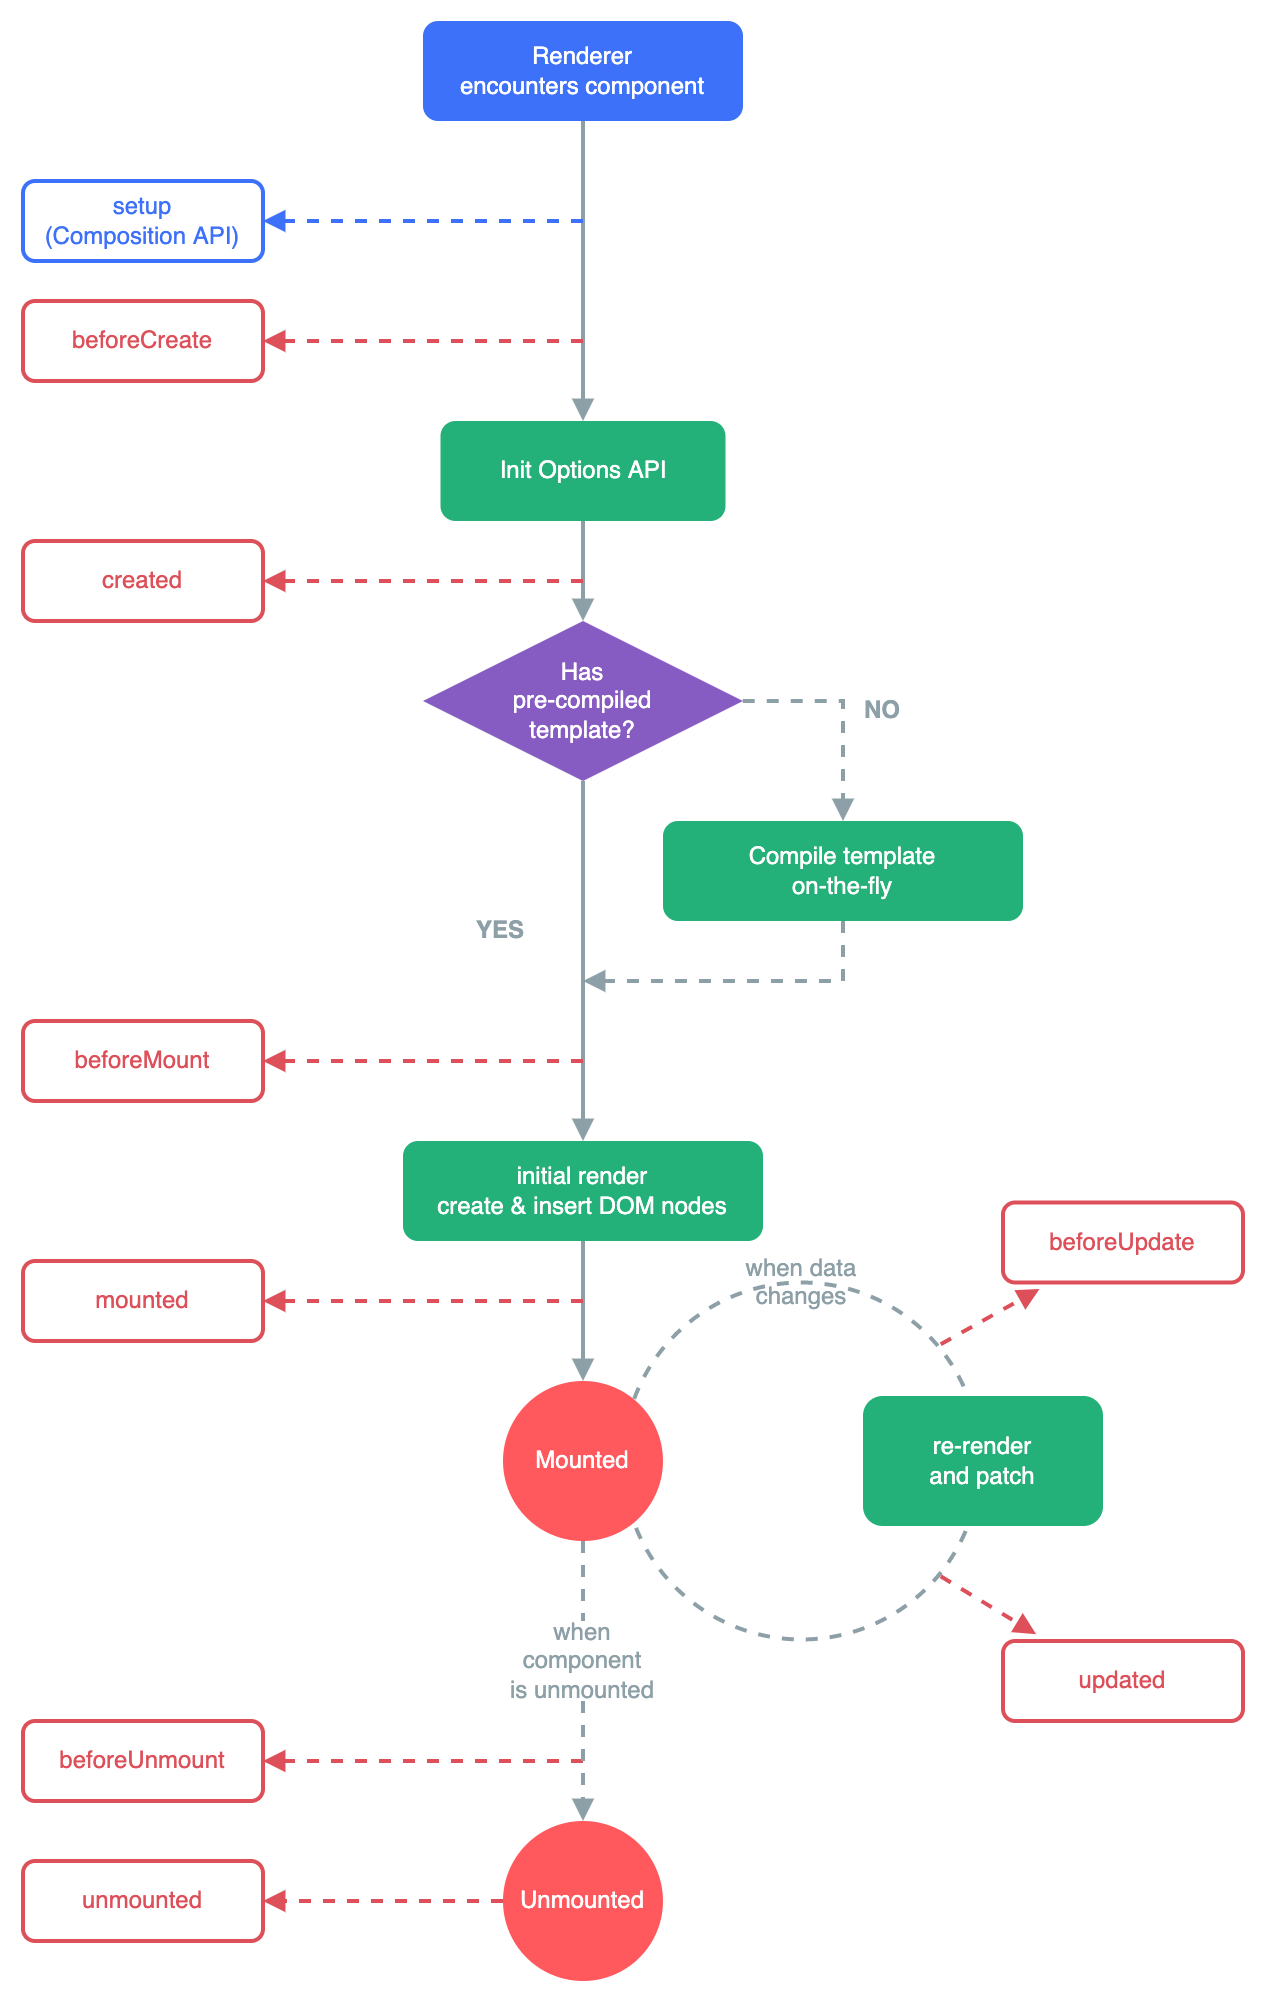
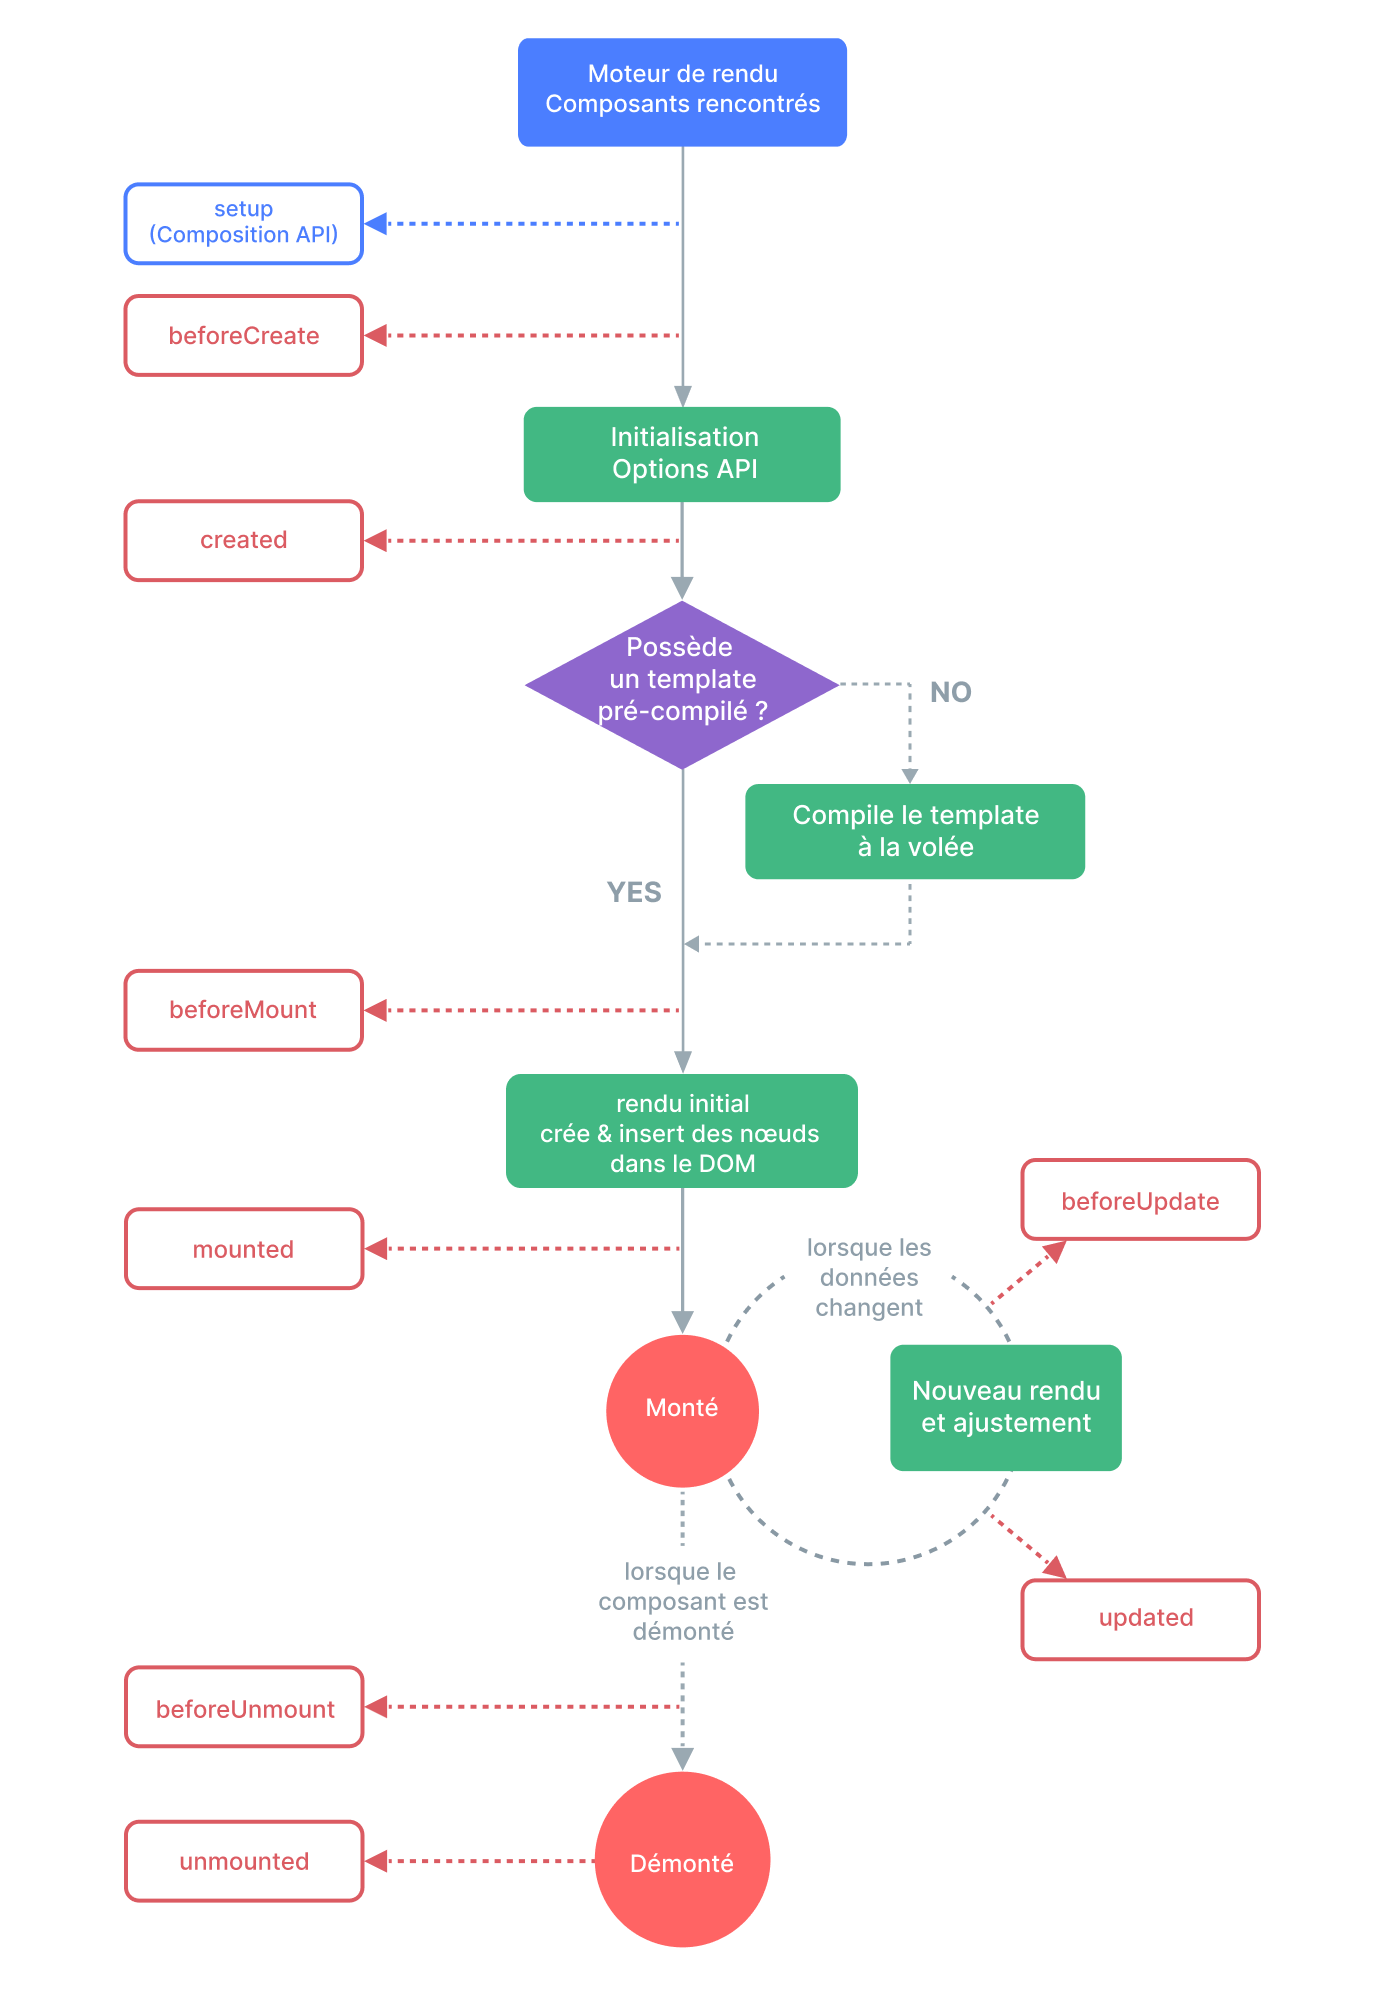
guide/essentials/lifecycle.md

diff --git a/.vitepress/config.ts b/.vitepress/config.ts
@@ -175,7 +175,7 @@ export const sidebar: ThemeConfig['sidebar'] = {
         },
         { text: 'Form Input Bindings', link: '/guide/essentials/forms' },
         {
-          text: 'Lifecycle Hooks',
+          text: 'Les hooks du cycle de vie',
           link: '/guide/essentials/lifecycle'
         },
         { text: 'Observateurs', link: '/guide/essentials/watchers' },
@@ -364,7 +364,7 @@ export const sidebar: ThemeConfig['sidebar'] = {
           link: '/api/reactivity-advanced'
         },
         {
-          text: 'Lifecycle Hooks',
+          text: 'Les hooks du cycle de vie',
           link: '/api/composition-api-lifecycle'
         },
         {

diff --git a/src/guide/essentials/lifecycle.md b/src/guide/essentials/lifecycle.md
@@ -1,10 +1,10 @@
-# Lifecycle Hooks {#lifecycle-hooks}
+# Les hooks du cycle de vie {#lifecycle-hooks}
 
-Each Vue component instance goes through a series of initialization steps when it's created - for example, it needs to set up data observation, compile the template, mount the instance to the DOM, and update the DOM when data changes. Along the way, it also runs functions called lifecycle hooks, giving users the opportunity to add their own code at specific stages.
+Chaque instance d'un composant Vue passe par une série d'étapes d'initialisation lorsqu'elle est créée - par exemple, il faut paramétrer l'observation des données, compiler le template, monter l'instance sur le DOM, et le mettre à jour lorsque les données changent. En cours de route, des fonctions appelées hooks du cycle de vie sont également exécutées, donnant la possibilité à l'utilisateur d'ajouter son propre code à des étapes spécifiques.
 
-## Registering Lifecycle Hooks {#registering-lifecycle-hooks}
+## Enregistrement des hooks du cycle de vie {#registering-lifecycle-hooks}
 
-For example, the <span class="composition-api">`onMounted`</span><span class="options-api">`mounted`</span> hook can be used to run code after the component has finished the initial rendering and created the DOM nodes:
+Par exemple, le hook <span class="composition-api">`onMounted`</span><span class="options-api">`mounted`</span>  peut être utilisé pour exécuter du code après que le composant ait terminé son rendu initial et créer les nœuds du DOM :
 
 <div class="composition-api">
 
@@ -31,36 +31,36 @@ export default {
 
 </div>
 
-There are also other hooks which will be called at different stages of the instance's lifecycle, with the most commonly used being <span class="composition-api">[`onMounted`](/api/composition-api-lifecycle.html#onmounted), [`onUpdated`](/api/composition-api-lifecycle.html#onupdated), and [`onUnmounted`](/api/composition-api-lifecycle.html#onunmounted).</span><span class="options-api">[`mounted`](/api/options-lifecycle.html#mounted), [`updated`](/api/options-lifecycle.html#updated), and [`unmounted`](/api/options-lifecycle.html#unmounted).</span>
+Il y a également d'autres hooks qui peuvent être appelés à différentes étapes du cycle de vie de l'instance, dont les plus couramment utilisés sont <span class="composition-api">[`onMounted`](/api/composition-api-lifecycle.html#onmounted), [`onUpdated`](/api/composition-api-lifecycle.html#onupdated), et [`onUnmounted`](/api/composition-api-lifecycle.html#onunmounted).</span><span class="options-api">[`mounted`](/api/options-lifecycle.html#mounted), [`updated`](/api/options-lifecycle.html#updated), and [`unmounted`](/api/options-lifecycle.html#unmounted).</span>
 
 <div class="options-api">
 
-All lifecycle hooks are called with their `this` context pointing to the current active instance invoking it. Note this means you should avoid using arrow functions when declaring lifecycle hooks, as you won't be able to access the component instance via `this` if you do so.
+Tous les hooks du cycle de vie sont appelés via leur contexte `this` qui pointe sur l'instance active actuelle qui l'invoque. Notez que vous devez éviter d'utiliser les fonctions fléchées lorsque vous déclarer des hooks du cycle de vie, puisque dans ce cas vous ne pourrez pas accéder à l'instance du composant via `this`.
 
 </div>
 
 <div class="composition-api">
 
-When calling `onMounted`, Vue automatically associates the registered callback function with the current active component instance. This requires these hooks to be registered **synchronously** during component setup. For example, do not do this:
+Lorsque vous appelez `onMounted`, Vue associe automatiquement la fonction de rappel enregistrée et l'instance active actuelle du composant. Cela nécessite que ces hooks soient enregistrés **de manière synchrone** pendant la configuration du composant. Par exemple, ne faites pas ça :
 
 ```js
 setTimeout(() => {
   onMounted(() => {
-    // this won't work.
+    // cela ne fonctionnera pas.
   })
 }, 100)
 ```
 
-Do note this doesn't mean that the call must be placed lexically inside `setup()` or `<script setup>`. `onMounted()` can be called in an external function as long as the call stack is synchronous and originates from within `setup()`.
+Notez que cela ne signifie pas que l'appel doit être placé littéralement dans `setup()` ou `<script setup>`. `onMounted()` peut être appelé dans une fonction externe tant que le contenu de l'appel est synchrone et provient de `setup()`.
 
 </div>
 
-## Lifecycle Diagram {#lifecycle-diagram}
+## Diagramme du cycle de vie {#lifecycle-diagram}
 
-Below is a diagram for the instance lifecycle. You don't need to fully understand everything going on right now, but as you learn and build more, it will be a useful reference.
+Ce-dessous figure le diagramme du cycle de vie d'une instance. Vous n'avez pas besoin de le comprendre entièrement pour le moment, mais au fur et à mesure que vous apprendrez et construirez, il sera une référence utile.
 
-![Component lifecycle diagram](./images/lifecycle.png)
+![Diagramme du cycle de vie d'un composant](./images/lifecycle.png)
 
 <!-- https://www.figma.com/file/Xw3UeNMOralY6NV7gSjWdS/Vue-Lifecycle -->
 
-Consult the <span class="composition-api">[Lifecycle Hooks API reference](/api/composition-api-lifecycle.html)</span><span class="options-api">[Lifecycle Hooks API reference](/api/options-lifecycle.html)</span> for details on all lifecycle hooks and their respective use cases.
+Consultez la <span class="composition-api">[référence de l'API des hooks du cycle de vie](/api/composition-api-lifecycle.html)</span><span class="options-api">[référence de l'API des hooks du cycle de vie](/api/options-lifecycle.html)</span> pour plus de détails sur tous les hooks du cycle de vie et leurs utilisations respectives.

diff --git a/src/tutorial/src/step-9/description.md b/src/tutorial/src/step-9/description.md
@@ -95,6 +95,6 @@ createApp({
 </div>
 </div>
 
-Ceci est appelé un **cycle de vie** - cela permet d'enregister un callback qui sera appelé à certains moment du cycle de vie du composant. Il y a d'autres cycles tels que <span class="options-api">`created` et `updated`</span><span class="composition-api">`onUpdated` et `onUnmounted`</span>. Consultez <a target="_blank" href="/guide/essentials/lifecycle.html#lifecycle-diagram">Le diagramme du cycle de vie</a> pour davantage de détails.
+Ceci est appelé un **cycle de vie** - cela permet d'enregistrer un callback qui sera appelé à certains moment du cycle de vie du composant. Il y a d'autres cycles tels que <span class="options-api">`created` et `updated`</span><span class="composition-api">`onUpdated` et `onUnmounted`</span>. Consultez <a target="_blank" href="/guide/essentials/lifecycle.html#lifecycle-diagram">Le diagramme du cycle de vie</a> pour davantage de détails.
 
 Maintenant, essayez d'ajouter un cycle de vie <span class="options-api">`mounted`</span><span class="composition-api">`onMounted`</span>, d'accéder au `<p>` via <span class="options-api">`this.$refs.p`</span><span class="composition-api">`p.value`</span>, et d'effectuer quelques opérations directes sur le DOM (ex. changer le `textContent`).

diff --git a/src/guide/reusability/composables.md b/src/guide/reusability/composables.md
@@ -6,7 +6,7 @@ const { x, y } = useMouse()
 </script>
 
 :::tip
-Cette section suppose une connaissance de base de la Composition API. Si vous avez appris Vue avec l'API Options uniquement, vous pouvez définir la préférence de l'API sur la Composition API (à l'aide de l'interrupteur en haut de la barre latérale gauche) et relire les [Reactivity Fundamentals](/guide/essentials/reactivity-fundamentals.html) et [Lifecycle Hooks](/guide/essentials/lifecycle.html).
+Cette section suppose une connaissance de base de la Composition API. Si vous avez appris Vue avec l'API Options uniquement, vous pouvez définir la préférence de l'API sur la Composition API (à l'aide de l'interrupteur en haut de la barre latérale gauche) et relire les [Principes fondamentaux des composants](/guide/essentials/reactivity-fundamentals.html) et [Les hooks du cycle de vie](/guide/essentials/lifecycle.html).
 :::
 
 ## Qu'est-ce qu'un "Composable"? {#what-is-a-composable}

diff --git a/src/guide/scaling-up/ssr.md b/src/guide/scaling-up/ssr.md
@@ -239,7 +239,7 @@ Regardless of your build setup or higher-level framework choice, there are some 
 
 During SSR, each request URL maps to a desired state of our application. There is no user interaction and no DOM updates, so reactivity is unnecessary on the server. By default, reactivity is disabled during SSR for better performance.
 
-### Component Lifecycle Hooks {#component-lifecycle-hooks}
+### Les hooks du cycle de vie du composant {#component-lifecycle-hooks}
 
 Since there are no dynamic updates, lifecycle hooks such as <span class="options-api">`mounted`</span><span class="composition-api">`onMounted`</span> or <span class="options-api">`updated`</span><span class="composition-api">`onUpdated`</span> will **NOT** be called during SSR and will only be executed on the client.<span class="options-api"> The only hooks that are called during SSR are `beforeCreate` and `created`</span>
 

diff --git a/src/guide/extras/composition-api-faq.md b/src/guide/extras/composition-api-faq.md
@@ -14,7 +14,7 @@ Composition API is a set of APIs that allows us to author Vue components using i
 
 - [Reactivity API](/api/reactivity-core.html), e.g. `ref()` and `reactive()`, that allows us to directly create reactive state, computed state, and watchers.
 
-- [Lifecycle Hooks](/api/composition-api-lifecycle.html), e.g. `onMounted()` and `onUnmounted()`, that allow us to programmatically hook into the component lifecycle.
+- [Les hooks du cycle de vie ](/api/composition-api-lifecycle.html), e.g. `onMounted()` and `onUnmounted()`, that allow us to programmatically hook into the component lifecycle.
 
 - [Dependency Injection](/api/composition-api-dependency-injection.html), i.e. `provide()` and `inject()`, that allow us to leverage Vue's dependency injection system while using Reactivity APIs.
 

diff --git a/src/api/composition-api-lifecycle.md b/src/api/composition-api-lifecycle.md
@@ -1,7 +1,7 @@
-# Composition API: Lifecycle Hooks {#composition-api-lifecycle-hooks}
+# Composition API: Les hooks du cycle de vie  {#composition-api-lifecycle-hooks}
 
 :::info Usage Note
-All APIs listed on this page must be called synchronously during the `setup()` phase of a component. See [Guide - Lifecycle Hooks](/guide/essentials/lifecycle.html) for more details.
+All APIs listed on this page must be called synchronously during the `setup()` phase of a component. See [Guide - Les hooks du cycle de vie](/guide/essentials/lifecycle.html) for more details.
 :::
 
 ## onMounted() {#onmounted}

diff --git a/src/api/component-instance.md b/src/api/component-instance.md
@@ -48,7 +48,7 @@ The root DOM node that the component instance is managing.
 
 - **Details**
 
-  `$el` will be `undefined` until the component is [mounted](./options-lifecycle#mounted).
+  `$el` will be `undefined` until the component is [monté](./options-lifecycle#mounted).
 
   - For components with a single root element, `$el` will point to that element.
   - For components with text root, `$el` will point to the text node.

diff --git a/src/api/options-lifecycle.md b/src/api/options-lifecycle.md
@@ -1,7 +1,7 @@
 # Options: Lifecycle {#options-lifecycle}
 
 :::info See also
-For shared usage of lifecycle hooks, see [Guide - Lifecycle Hooks](/guide/essentials/lifecycle.html)
+For shared usage of lifecycle hooks, see [Guide - Les hooks du cycle de vie](/guide/essentials/lifecycle.html)
 :::
 
 ## beforeCreate {#beforecreate}

diff --git a/src/api/application.md b/src/api/application.md
@@ -337,7 +337,7 @@ Assign a global handler for uncaught errors propagating from within the applicat
 
   - Component renders
   - Event handlers
-  - Lifecycle hooks
+  - Les hooks du cycle de vie 
   - `setup()` function
   - Watchers
   - Custom directive hooks
